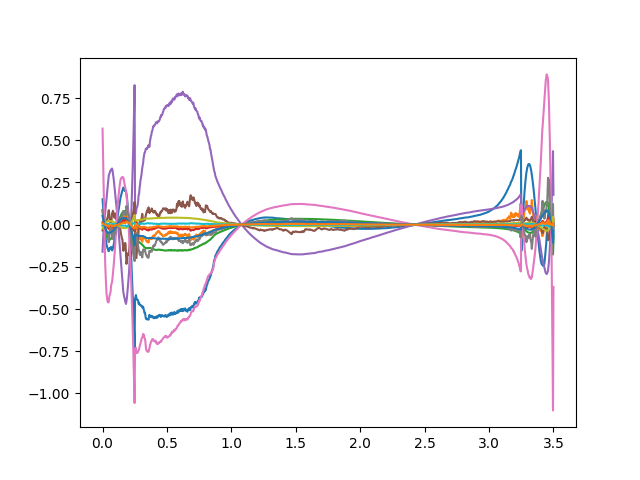
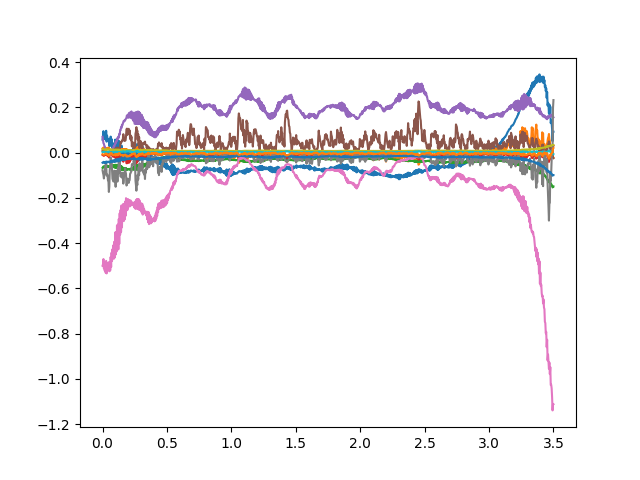
works

diff --git a/examples/derivatives.py b/examples/derivatives.py
@@ -4,19 +4,22 @@ import logging
 from hybrid.fingerprints import  Fingerprints, HybridStateSystem,HybridStateSolution
 from hybrid.cramer import CramerRaoBound
 import matplotlib.pyplot as plt
-# from scipy.optimize import minimize
+
 logging.basicConfig(level=logging.INFO)
 
         
 def evaluate(theta_fun:np.ndarray,grad_flag:bool =False):    
     hmrf = HybridStateSystem(mode = 'params',theta = theta_fun)
     matfun_, rhsfun_,bndr_cond,edges = hmrf.matfun,hmrf.rhsfun,hmrf.boundary_conditions(),hmrf.starting_edges
-    pgs = PetrovGalerkinSolverSettings(degree_increments = (1,),\
-                    max_rep_err=1e-5,max_lcl_err=1e-4,max_num_interval=2**12,)
+    pgs = PetrovGalerkinSolverSettings(degree_increments = (2,4,8,),\
+                    max_rep_err=1e-3,max_lcl_err=1e-5,max_num_interval=2**12,)
     
     lbp = LinearBoundaryProblem(funs = (matfun_,rhsfun_),\
                     boundary_condition= bndr_cond,edges = edges)
     ls = LinearSolver(pgs,lbp) 
+    
+    ls.refine_for_representation()
+    ls.refine_for_local_problems()
     ls.solve()
     
     solution = ls.solution
@@ -36,7 +39,8 @@ def evaluate(theta_fun:np.ndarray,grad_flag:bool =False):
     
     l0 = crb(fng)
     
-
+    
+    
     if not grad_flag:
         return l0,np.empty((0,))
     
@@ -47,6 +51,19 @@ def evaluate(theta_fun:np.ndarray,grad_flag:bool =False):
     dldf_dfdtheta = fng.design_derivative_inner_product(dldf)
     adjoint = adjoint_method.get_adjoint(solution,ls.global_system_solver,dldedge)
     
+    x = np.linspace(0,hmrf.total_time,1000)
+    y = adjoint(x)    
+    plt.plot(x,y)
+    plt.savefig('adjoint.png')
+    plt.close()
+    
+    
+    x = np.linspace(0,hmrf.total_time,1000)
+    y = solution(x)    
+    plt.plot(x,y)
+    plt.savefig('solution.png')
+    plt.close()
+    
     dldx1 = design_product.dot(solution,adjoint,design1)
     dldx2 = design_product.dot(solution,adjoint,design2)
     dldx = hmrf.design_gradient_collection(dldx1,dldx2,dldf_dfdtheta,solution)
@@ -56,10 +73,11 @@ def evaluate(theta_fun:np.ndarray,grad_flag:bool =False):
 
 def main():
     np.random.seed(0)
-    theta_fun = np.random.rand(100)*np.pi/2
+    x = np.linspace(0,1,1000)
+    f = 64
+    theta_fun = np.cos(np.pi*x**2*f)*np.pi/4 + np.pi/4
     l0,grad = evaluate(theta_fun,grad_flag = True)
-    pert = np.random.randn(*theta_fun.shape)*0
-    pert[0] = 1
+    pert = np.random.randn(*theta_fun.shape)
     for h in [10**(-i) for i in range(1,15)]:        
         theta_fun += h*pert
         l1,_ = evaluate(theta_fun,grad_flag = False)
@@ -71,7 +89,7 @@ def main():
         relerr = np.abs(
             g_dl - t_dl
         )/(np.abs(g_dl) + np.abs(t_dl))*2
-        logging.info(f'relerr,h = {relerr,h}')
+        logging.info(f'relerr,h = {relerr,h}, est,tru = {g_dl,t_dl}')
     
     
     

diff --git a/solver/design.py b/solver/design.py
@@ -18,8 +18,8 @@ class Edges2Coeffs:
         self.dim = dim
     def product(self,ldeg:int,rdeg:int,dldedge:np.ndarray,output:np.ndarray,ind0:int,ind1:int):
         ls,rs = self.averaging_edge_value(ldeg,rdeg)
-        slc0 = slice(ind0,ind0 + len(ls))
-        slc1 = slice(ind1,ind1 + len(rs))
+        slc0 = slice(ind0,ind0 + ldeg)
+        slc1 = slice(ind1,ind1 + rdeg)
         output[slc0,:] += np.outer(ls,dldedge[0])
         output[slc1,:] += np.outer(rs,dldedge[1])      
     def transpose_edge_product(self,dldedge:np.ndarray,degrees:np.ndarray,):        
@@ -27,8 +27,10 @@ class Edges2Coeffs:
         nedges = dldedge.shape[0]
         output = np.zeros((np.sum(degrees),self.dim),)
         assert len(degrees) == dldedge.shape[0] + 1
+        cdeg = np.cumsum(degrees)
+        cdeg = np.insert(cdeg,0,0)
         for i in range(nedges):
-            self.product(degrees[i],degrees[i+1],dldedge[i],output,i,i+1)
+            self.product(degrees[i],degrees[i+1],dldedge[i],output,cdeg[i],cdeg[i+1])
         return output.flatten()
     
     
@@ -43,9 +45,9 @@ class AdjointMethod(Edges2Coeffs):
         adjglb.solve()
         adjoint_weights = adjglb.solution
         
-        admid = adjoint_weights[:-2*state.dim]
-        adhead = adjoint_weights[-2*state.dim:-state.dim]
-        adtail = adjoint_weights[-state.dim:]
+        admid = adjoint_weights[:-2*self.dim]
+        adhead = adjoint_weights[-2*self.dim:-self.dim]
+        adtail = adjoint_weights[-self.dim:]
         adjoint_weights = np.concatenate([adhead,admid,adtail])
         adjoint = state.create_from_solution(adjoint_weights,self.dim)  
         return adjoint

diff --git a/hybrid/cramer.py b/hybrid/cramer.py
@@ -7,7 +7,7 @@ class CramerRaoBound(LossFunction):
         self.time_edges = time_edges
         self.variables_inds = variables_inds
     def fischer_mat(self,fingerprints:Fingerprints):
-        fischer = fingerprints.values.T@fingerprints.values  + np.eye(fingerprints.values.shape[1])
+        fischer = fingerprints.values.T@fingerprints.values # + np.eye(fingerprints.values.shape[1])
         return fischer
     def crb_mat(self,fingerprints:Fingerprints):
         fmat = self.fischer_mat(fingerprints)

diff --git a/solver/settings.py b/solver/settings.py
@@ -71,6 +71,7 @@ class LinearSolver(LinearBoundaryProblem,PetrovGalerkinSolverSettings):
             self.max_lcl_err,self.max_num_interval,self.max_grid_cond)
         self.solution = self.mergedfuns
         self.global_system_solver = None
+    def solve(self,):...
     def generate_empty_solution(self,):
         return self.mergedfuns.new_grided_chebyshev(self.dim,degree = self.degree_increments[0])
     def refine_for_local_problems(self,):
